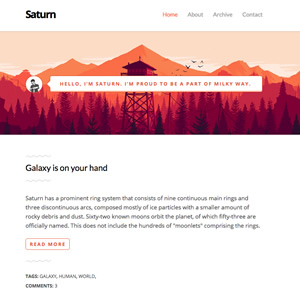
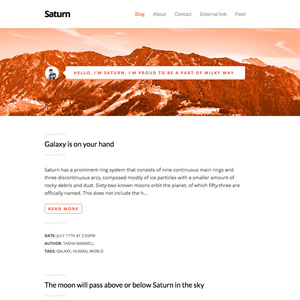
Images replacements due to copyright infringement Fix #1

diff --git a/css/custom.min.css b/css/custom.min.css
@@ -1,4 +1,4 @@
 /*!
  *  Saturn HTML Template by @flamekaizar - http://afnizar.com
  *  License - http://license.afnizar.com/ (MIT License)
- */body{margin-bottom:50px}a{font-family:"Open Sans",sans-serif}.container{margin:auto;max-width:662px;padding:0 20px}.main-nav{padding-top:30px;padding-bottom:25px;background-color:#FFF;-moz-box-shadow:0 1px 5px rgba(0,0,0,.1);-webkit-box-shadow:0 1px 5px rgba(0,0,0,.1);box-shadow:0 1px 5px rgba(0,0,0,.1);z-index:10;position:relative}.group.top-nav{margin-bottom:-20px}.group.top-nav nav a{text-decoration:none}.group.top-nav nav a:hover{color:#FF6C40;-webkit-transition:all .25s ease-in-out;-moz-transition:all .2s ease-in-out;-ms-transition:all .2s ease-in-out;-o-transition:all .2s ease-in-out;transition:all .2s ease-in-out}.logo,.top-nav a.logo{font-family:'Open Sans',sans-serif;font-weight:700;font-size:27px;color:#000;letter-spacing:-2px}.navigation-toggle .logo{font-size:20px;text-transform:capitalize}.top-nav .item-nav li.active a{color:#FF6C40}.top-nav .item-nav li a{font-family:Lato,sans-serif;font-size:15px;font-weight:500;color:#A4A4A4}.intro{width:100%;height:272px;padding-top:117px;background:url(../img/head-bg.jpg) center top #F7F7F7}p.p-intro{color:#E85F37;font-family:"Open Sans",sans-serif;font-size:13px;letter-spacing:2px;font-weight:700;text-transform:uppercase;padding:10px 25px;background-color:#FFF;border:1px solid #DC5227;-moz-border-radius:5px;-webkit-border-radius:5px;border-radius:5px;box-shadow:inset 0 -3px 0 #ffcfbc;position:relative;-webkit-animation:smooth-entry-btn 1s;-moz-animation:smooth-entry-btn 1s;animation:smooth-entry-btn 1s}p.p-intro:after{content:'';position:absolute;border-style:solid;border-width:9px 9px 9px 0;border-color:transparent #FFF;display:block;width:0;z-index:1;left:-9px;top:12px}p.p-intro:before{content:'';position:absolute;border-style:solid;border-width:11px 10px 11px 0;border-color:transparent #DC5227;display:block;width:0;z-index:1;left:-10px;top:10px}img.img-intro{border-radius:100px;width:47px;background-color:#EF3A3A;border:1px solid #DC5227;-moz-box-shadow:inset .5px .9px 5px rgba(0,0,0,.05);-webkit-box-shadow:inset .5px .9px 5px rgba(0,0,0,.05);box-shadow:inset .5px .9px 5px rgba(0,0,0,.05);-webkit-animation:smooth-entry-btn 1s;-moz-animation:smooth-entry-btn 1s;animation:smooth-entry-btn 1s}.content{padding-top:75px}.post{margin-bottom:80px}.content .post a{text-decoration:none}.content .post h1{color:#000;font-family:Lato,sans-serif;font-size:22px;font-weight:400;position:relative}.content .post a h1:hover{color:#FF6C40;-webkit-transition:all .2s ease-in-out;-moz-transition:all .2s ease-in-out;-ms-transition:all .2s ease-in-out;-o-transition:all .2s ease-in-out;transition:all .2s ease-in-out}.content .post p{color:#535353;font-family:"Open Sans",sans-serif;font-size:15px;font-weight:400}.content .post img{margin-bottom:20px}.content .post img.left{margin-right:20px}.content .post hr{content:url(../img/separator.png);width:66px;height:7px;float:left;border:none}.content .post h1:before{content:url(../img/separator.png);position:absolute;top:-35px;left:1px}.in-content{margin-top:55px}a.read-more{padding:5px 10px;background-color:#FFF;border:1px solid #E85F37;-moz-border-radius:5px;-webkit-border-radius:5px;border-radius:5px;color:#E85F37;font-size:13px;font-weight:700;text-transform:uppercase;text-decoration:none;letter-spacing:2px}a.read-more:hover{background-color:#FF6C40;color:#fff;-webkit-transition:all .25s ease-in-out;-moz-transition:all .25s ease-in-out;-ms-transition:all .25s ease-in-out;-o-transition:all .25s ease-in-out;transition:all .25s ease-in-out}.foot-post{position:relative;margin-top:60px;color:#535353;font-family:"Open Sans",sans-serif;font-size:12px;font-weight:700;text-transform:uppercase}.foot-post a, .foot-post span{font-weight:400;text-decoration:none;color:#535353}.foot-post a:hover{border-bottom:1px dotted #ccc}.foot-post:before{content:url(../img/separator.png);position:absolute;top:-40px;left:1px}footer .btn{color:#FFF;font-size:13px;font-family:"Open Sans";font-weight:700;letter-spacing:2px}footer .social li{display:inline;margin-left:10px;margin-right:10px}footer .social li a{color:#a5a5a5}footer .social li a:hover{color:#e85f37}.foot-cp a{color:#A5A5A5;font-family:Lato,sans-serif;font-size:13px;font-weight:400;text-transform:uppercase;text-decoration:none;letter-spacing:3px}@-webkit-keyframes smooth-entry{0%{opacity:0;-webkit-transform:translateY(-1.4em)}100%{opacity:1;-webkit-transform:translateY(0)}}@-moz-keyframes smooth-entry{0%{opacity:0;-moz-transform:translateY(-1.4em)}100%{opacity:1;-moz-transform:translateY(0)}}@keyframes smooth-entry{0%{opacity:0;-webkit-transform:translateY(-1.4em);-moz-transform:translateY(-1.4em);-ms-transform:translateY(-1.4em);-o-transform:translateY(-1.4em);transform:translateY(-1.4em)}100%{opacity:1;-webkit-transform:translateY(0);-moz-transform:translateY(0);-ms-transform:translateY(0);-o-transform:translateY(0);transform:translateY(0)}}@-webkit-keyframes smooth-entry-reverse{0%{opacity:0;-webkit-transform:translateY(2em)}100%{opacity:1;-webkit-transform:translateY(0)}}@-moz-keyframes smooth-entry-reverse{0%{opacity:0;-moz-transform:translateY(2em)}100%{opacity:1;-moz-transform:translateY(0)}}@keyframes smooth-entry-reverse{0%{opacity:0;-webkit-transform:translateY(2em);-moz-transform:translateY(2em);-ms-transform:translateY(2em);-o-transform:translateY(2em);transform:translateY(2em)}100%{opacity:1;-webkit-transform:translateY(0);-moz-transform:translateY(0);-ms-transform:translateY(0);-o-transform:translateY(0);transform:translateY(0)}}@-webkit-keyframes smooth-entry-title{0%,50%{opacity:0;-webkit-transform:translateY(-.6em)}100%{opacity:1;-webkit-transform:translateY(0)}}@-moz-keyframes smooth-entry-title{0%,50%{opacity:0;-moz-transform:translateY(-.6em)}100%{opacity:1;-moz-transform:translateY(0)}}@keyframes smooth-entry-title{0%,50%{opacity:0;-webkit-transform:translateY(-.6em);-moz-transform:translateY(-.6em);-ms-transform:translateY(-.6em);-o-transform:translateY(-.6em);transform:translateY(-.6em)}100%{opacity:1;-webkit-transform:translateY(0);-moz-transform:translateY(0);-ms-transform:translateY(0);-o-transform:translateY(0);transform:translateY(0)}}@-webkit-keyframes smooth-entry-btn{0%,70%{opacity:0;-webkit-transform:translateY(0.6em)}100%{opacity:1;-webkit-transform:translateY(0)}}@-moz-keyframes smooth-entry-btn{0%,70%{opacity:0;-moz-transform:translateY(0.6em)}100%{opacity:1;-moz-transform:translateY(0)}}@keyframes smooth-entry-btn{0%,70%{opacity:0;-webkit-transform:translateY(0.6em);-moz-transform:translateY(0.6em);-ms-transform:translateY(0.6em);-o-transform:translateY(0.6em);transform:translateY(0.6em)}100%{opacity:1;-webkit-transform:translateY(0);-moz-transform:translateY(0);-ms-transform:translateY(0);-o-transform:translateY(0);transform:translateY(0)}}@-webkit-keyframes fof-alien{0%,100%{-webkit-transform:translateY(0)}50%{-webkit-transform:translateY(-30px)}}@-moz-keyframes fof-alien{0%,100%{-moz-transform:translateY(0)}50%{-moz-transform:translateY(-30px)}}@keyframes fof-alien{0%,100%{-webkit-transform:translateY(0);-moz-transform:translateY(0);-ms-transform:translateY(0);-o-transform:translateY(0);transform:translateY(0)}50%{-webkit-transform:translateY(-30px);-moz-transform:translateY(-30px);-ms-transform:translateY(-30px);-o-transform:translateY(-30px);transform:translateY(-30px)}}@-webkit-keyframes fof-shadow{0%,100%{-webkit-transform:scale(1)}50%{-webkit-transform:scale(0.8)}}@-moz-keyframes fof-shadow{0%,100%{-moz-transform:scale(1)}50%{-moz-transform:scale(0.8)}}@keyframes fof-shadow{0%,100%{-webkit-transform:scale(1);-moz-transform:scale(1);-ms-transform:scale(1);-o-transform:scale(1);transform:scale(1)}50%{-webkit-transform:scale(0.8);-moz-transform:scale(0.8);-ms-transform:scale(0.8);-o-transform:scale(0.8);transform:scale(0.8)}}@media only screen and (max-width:767px){.intro{padding-top:50px}img.img-intro{display:block;margin-left:auto;margin-right:auto}.logo-w{display:none}.main-nav{padding-top:20px;padding-bottom:20px}.top-nav .item-nav li{padding-bottom:10px}footer .btn{display:block;margin-left:auto;margin-right:auto}footer .social{text-align:center}.foot-cp{padding-top:10px}}
+ */body{margin-bottom:50px}a{font-family:"Open Sans",sans-serif}.container{margin:auto;max-width:662px;padding:0 20px}.main-nav{padding-top:30px;padding-bottom:25px;background-color:#FFF;-moz-box-shadow:0 1px 5px rgba(0,0,0,.1);-webkit-box-shadow:0 1px 5px rgba(0,0,0,.1);box-shadow:0 1px 5px rgba(0,0,0,.1);z-index:10;position:relative}.group.top-nav{margin-bottom:-20px}.group.top-nav nav a{text-decoration:none}.group.top-nav nav a:hover{color:#FF6C40;-webkit-transition:all .25s ease-in-out;-moz-transition:all .2s ease-in-out;-ms-transition:all .2s ease-in-out;-o-transition:all .2s ease-in-out;transition:all .2s ease-in-out}.logo,.top-nav a.logo{font-family:'Open Sans',sans-serif;font-weight:700;font-size:27px;color:#000;letter-spacing:-2px}.navigation-toggle .logo{font-size:20px;text-transform:capitalize}.top-nav .item-nav li.active a{color:#FF6C40}.top-nav .item-nav li a{font-family:Lato,sans-serif;font-size:15px;font-weight:500;color:#A4A4A4}.intro{width:100%;height:272px;padding-top:117px;background:url(../img/head-bg.jpg) center 35% #F7F7F7}p.p-intro{color:#E85F37;font-family:"Open Sans",sans-serif;font-size:13px;letter-spacing:2px;font-weight:700;text-transform:uppercase;padding:10px 25px;background-color:#FFF;border:1px solid #DC5227;-moz-border-radius:5px;-webkit-border-radius:5px;border-radius:5px;box-shadow:inset 0 -3px 0 #ffcfbc;position:relative;-webkit-animation:smooth-entry-btn 1s;-moz-animation:smooth-entry-btn 1s;animation:smooth-entry-btn 1s}p.p-intro:after{content:'';position:absolute;border-style:solid;border-width:9px 9px 9px 0;border-color:transparent #FFF;display:block;width:0;z-index:1;left:-9px;top:12px}p.p-intro:before{content:'';position:absolute;border-style:solid;border-width:11px 10px 11px 0;border-color:transparent #DC5227;display:block;width:0;z-index:1;left:-10px;top:10px}img.img-intro{border-radius:100px;width:47px;background-color:#EF3A3A;border:1px solid #DC5227;-moz-box-shadow:inset .5px .9px 5px rgba(0,0,0,.05);-webkit-box-shadow:inset .5px .9px 5px rgba(0,0,0,.05);box-shadow:inset .5px .9px 5px rgba(0,0,0,.05);-webkit-animation:smooth-entry-btn 1s;-moz-animation:smooth-entry-btn 1s;animation:smooth-entry-btn 1s}.content{padding-top:75px}.post{margin-bottom:80px}.content .post a{text-decoration:none}.content .post h1{color:#000;font-family:Lato,sans-serif;font-size:22px;font-weight:400;position:relative}.content .post a h1:hover{color:#FF6C40;-webkit-transition:all .2s ease-in-out;-moz-transition:all .2s ease-in-out;-ms-transition:all .2s ease-in-out;-o-transition:all .2s ease-in-out;transition:all .2s ease-in-out}.content .post p{color:#535353;font-family:"Open Sans",sans-serif;font-size:15px;font-weight:400}.content .post img{margin-bottom:20px}.content .post img.left{margin-right:20px}.content .post hr{content:url(../img/separator.png);width:66px;height:7px;float:left;border:none}.content .post h1:before{content:url(../img/separator.png);position:absolute;top:-35px;left:1px}.in-content{margin-top:55px}a.read-more{padding:5px 10px;background-color:#FFF;border:1px solid #E85F37;-moz-border-radius:5px;-webkit-border-radius:5px;border-radius:5px;color:#E85F37;font-size:13px;font-weight:700;text-transform:uppercase;text-decoration:none;letter-spacing:2px}a.read-more:hover{background-color:#FF6C40;color:#fff;-webkit-transition:all .25s ease-in-out;-moz-transition:all .25s ease-in-out;-ms-transition:all .25s ease-in-out;-o-transition:all .25s ease-in-out;transition:all .25s ease-in-out}.foot-post{position:relative;margin-top:60px;color:#535353;font-family:"Open Sans",sans-serif;font-size:12px;font-weight:700;text-transform:uppercase}.foot-post a, .foot-post span{font-weight:400;text-decoration:none;color:#535353}.foot-post a:hover{border-bottom:1px dotted #ccc}.foot-post:before{content:url(../img/separator.png);position:absolute;top:-40px;left:1px}footer .btn{color:#FFF;font-size:13px;font-family:"Open Sans";font-weight:700;letter-spacing:2px}footer .social li{display:inline;margin-left:10px;margin-right:10px}footer .social li a{color:#a5a5a5}footer .social li a:hover{color:#e85f37}.foot-cp a{color:#A5A5A5;font-family:Lato,sans-serif;font-size:13px;font-weight:400;text-transform:uppercase;text-decoration:none;letter-spacing:3px}@-webkit-keyframes smooth-entry{0%{opacity:0;-webkit-transform:translateY(-1.4em)}100%{opacity:1;-webkit-transform:translateY(0)}}@-moz-keyframes smooth-entry{0%{opacity:0;-moz-transform:translateY(-1.4em)}100%{opacity:1;-moz-transform:translateY(0)}}@keyframes smooth-entry{0%{opacity:0;-webkit-transform:translateY(-1.4em);-moz-transform:translateY(-1.4em);-ms-transform:translateY(-1.4em);-o-transform:translateY(-1.4em);transform:translateY(-1.4em)}100%{opacity:1;-webkit-transform:translateY(0);-moz-transform:translateY(0);-ms-transform:translateY(0);-o-transform:translateY(0);transform:translateY(0)}}@-webkit-keyframes smooth-entry-reverse{0%{opacity:0;-webkit-transform:translateY(2em)}100%{opacity:1;-webkit-transform:translateY(0)}}@-moz-keyframes smooth-entry-reverse{0%{opacity:0;-moz-transform:translateY(2em)}100%{opacity:1;-moz-transform:translateY(0)}}@keyframes smooth-entry-reverse{0%{opacity:0;-webkit-transform:translateY(2em);-moz-transform:translateY(2em);-ms-transform:translateY(2em);-o-transform:translateY(2em);transform:translateY(2em)}100%{opacity:1;-webkit-transform:translateY(0);-moz-transform:translateY(0);-ms-transform:translateY(0);-o-transform:translateY(0);transform:translateY(0)}}@-webkit-keyframes smooth-entry-title{0%,50%{opacity:0;-webkit-transform:translateY(-.6em)}100%{opacity:1;-webkit-transform:translateY(0)}}@-moz-keyframes smooth-entry-title{0%,50%{opacity:0;-moz-transform:translateY(-.6em)}100%{opacity:1;-moz-transform:translateY(0)}}@keyframes smooth-entry-title{0%,50%{opacity:0;-webkit-transform:translateY(-.6em);-moz-transform:translateY(-.6em);-ms-transform:translateY(-.6em);-o-transform:translateY(-.6em);transform:translateY(-.6em)}100%{opacity:1;-webkit-transform:translateY(0);-moz-transform:translateY(0);-ms-transform:translateY(0);-o-transform:translateY(0);transform:translateY(0)}}@-webkit-keyframes smooth-entry-btn{0%,70%{opacity:0;-webkit-transform:translateY(0.6em)}100%{opacity:1;-webkit-transform:translateY(0)}}@-moz-keyframes smooth-entry-btn{0%,70%{opacity:0;-moz-transform:translateY(0.6em)}100%{opacity:1;-moz-transform:translateY(0)}}@keyframes smooth-entry-btn{0%,70%{opacity:0;-webkit-transform:translateY(0.6em);-moz-transform:translateY(0.6em);-ms-transform:translateY(0.6em);-o-transform:translateY(0.6em);transform:translateY(0.6em)}100%{opacity:1;-webkit-transform:translateY(0);-moz-transform:translateY(0);-ms-transform:translateY(0);-o-transform:translateY(0);transform:translateY(0)}}@-webkit-keyframes fof-alien{0%,100%{-webkit-transform:translateY(0)}50%{-webkit-transform:translateY(-30px)}}@-moz-keyframes fof-alien{0%,100%{-moz-transform:translateY(0)}50%{-moz-transform:translateY(-30px)}}@keyframes fof-alien{0%,100%{-webkit-transform:translateY(0);-moz-transform:translateY(0);-ms-transform:translateY(0);-o-transform:translateY(0);transform:translateY(0)}50%{-webkit-transform:translateY(-30px);-moz-transform:translateY(-30px);-ms-transform:translateY(-30px);-o-transform:translateY(-30px);transform:translateY(-30px)}}@-webkit-keyframes fof-shadow{0%,100%{-webkit-transform:scale(1)}50%{-webkit-transform:scale(0.8)}}@-moz-keyframes fof-shadow{0%,100%{-moz-transform:scale(1)}50%{-moz-transform:scale(0.8)}}@keyframes fof-shadow{0%,100%{-webkit-transform:scale(1);-moz-transform:scale(1);-ms-transform:scale(1);-o-transform:scale(1);transform:scale(1)}50%{-webkit-transform:scale(0.8);-moz-transform:scale(0.8);-ms-transform:scale(0.8);-o-transform:scale(0.8);transform:scale(0.8)}}@media only screen and (max-width:767px){.intro{padding-top:50px}img.img-intro{display:block;margin-left:auto;margin-right:auto}.logo-w{display:none}.main-nav{padding-top:20px;padding-bottom:20px}.top-nav .item-nav li{padding-bottom:10px}footer .btn{display:block;margin-left:auto;margin-right:auto}footer .social{text-align:center}.foot-cp{padding-top:10px}}

diff --git a/css/custom.css b/css/custom.css
@@ -23,12 +23,12 @@ a { font-family: "Open Sans", sans-serif }
 }
 .group.top-nav { margin-bottom: -20px }
 .group.top-nav nav a { text-decoration: none }
-.group.top-nav nav a:hover { 
+.group.top-nav nav a:hover {
 	color: #FF6C40; -webkit-transition: all .25s ease-in-out;
    -moz-transition: all .2s ease-in-out;
     -ms-transition: all .2s ease-in-out;
      -o-transition: all .2s ease-in-out;
-        transition: all .2s ease-in-out; 
+        transition: all .2s ease-in-out;
 }
 /* Created by @flamekaizar */
 .top-nav a.logo,
@@ -54,7 +54,7 @@ a { font-family: "Open Sans", sans-serif }
     width: 100%;
     height: 272px;
     padding-top: 117px;
-    background: url(../img/head-bg.jpg) #F7F7F7 center top;
+    background: url(../img/head-bg.jpg) #F7F7F7 center 35%;
 }
 p.p-intro {
     color: #E85F37;
@@ -129,7 +129,7 @@ img.img-intro {
    -moz-transition: all .2s ease-in-out;
     -ms-transition: all .2s ease-in-out;
      -o-transition: all .2s ease-in-out;
-        transition: all .2s ease-in-out; 
+        transition: all .2s ease-in-out;
 }
 .content .post p {
     color: #535353;
@@ -229,7 +229,7 @@ footer .social li a:hover {
 
 @-webkit-keyframes smooth-entry{0%{opacity:0;-webkit-transform:translateY(-1.4em)}100%{opacity:1;-webkit-transform:translateY(0)}}@-moz-keyframes smooth-entry{0%{opacity:0;-moz-transform:translateY(-1.4em)}100%{opacity:1;-moz-transform:translateY(0)}}@keyframes smooth-entry{0%{opacity:0;-webkit-transform:translateY(-1.4em);-moz-transform:translateY(-1.4em);-ms-transform:translateY(-1.4em);-o-transform:translateY(-1.4em);transform:translateY(-1.4em)}100%{opacity:1;-webkit-transform:translateY(0);-moz-transform:translateY(0);-ms-transform:translateY(0);-o-transform:translateY(0);transform:translateY(0)}}@-webkit-keyframes smooth-entry-reverse{0%{opacity:0;-webkit-transform:translateY(2em)}100%{opacity:1;-webkit-transform:translateY(0)}}@-moz-keyframes smooth-entry-reverse{0%{opacity:0;-moz-transform:translateY(2em)}100%{opacity:1;-moz-transform:translateY(0)}}@keyframes smooth-entry-reverse{0%{opacity:0;-webkit-transform:translateY(2em);-moz-transform:translateY(2em);-ms-transform:translateY(2em);-o-transform:translateY(2em);transform:translateY(2em)}100%{opacity:1;-webkit-transform:translateY(0);-moz-transform:translateY(0);-ms-transform:translateY(0);-o-transform:translateY(0);transform:translateY(0)}}@-webkit-keyframes smooth-entry-title{0%{opacity:0;-webkit-transform:translateY(-0.6em)}50%{opacity:0;-webkit-transform:translateY(-0.6em)}100%{opacity:1;-webkit-transform:translateY(0)}}@-moz-keyframes smooth-entry-title{0%{opacity:0;-moz-transform:translateY(-0.6em)}50%{opacity:0;-moz-transform:translateY(-0.6em)}100%{opacity:1;-moz-transform:translateY(0)}}@keyframes smooth-entry-title{0%{opacity:0;-webkit-transform:translateY(-0.6em);-moz-transform:translateY(-0.6em);-ms-transform:translateY(-0.6em);-o-transform:translateY(-0.6em);transform:translateY(-0.6em)}50%{opacity:0;-webkit-transform:translateY(-0.6em);-moz-transform:translateY(-0.6em);-ms-transform:translateY(-0.6em);-o-transform:translateY(-0.6em);transform:translateY(-0.6em)}100%{opacity:1;-webkit-transform:translateY(0);-moz-transform:translateY(0);-ms-transform:translateY(0);-o-transform:translateY(0);transform:translateY(0)}}@-webkit-keyframes smooth-entry-btn{0%{opacity:0;-webkit-transform:translateY(0.6em)}70%{opacity:0;-webkit-transform:translateY(0.6em)}100%{opacity:1;-webkit-transform:translateY(0)}}@-moz-keyframes smooth-entry-btn{0%{opacity:0;-moz-transform:translateY(0.6em)}70%{opacity:0;-moz-transform:translateY(0.6em)}100%{opacity:1;-moz-transform:translateY(0)}}@keyframes smooth-entry-btn{0%{opacity:0;-webkit-transform:translateY(0.6em);-moz-transform:translateY(0.6em);-ms-transform:translateY(0.6em);-o-transform:translateY(0.6em);transform:translateY(0.6em)}70%{opacity:0;-webkit-transform:translateY(0.6em);-moz-transform:translateY(0.6em);-ms-transform:translateY(0.6em);-o-transform:translateY(0.6em);transform:translateY(0.6em)}100%{opacity:1;-webkit-transform:translateY(0);-moz-transform:translateY(0);-ms-transform:translateY(0);-o-transform:translateY(0);transform:translateY(0)}}@-webkit-keyframes fof-alien{0%,100%{-webkit-transform:translateY(0)}50%{-webkit-transform:translateY(-30px)}}@-moz-keyframes fof-alien{0%,100%{-moz-transform:translateY(0)}50%{-moz-transform:translateY(-30px)}}@keyframes fof-alien{0%,100%{-webkit-transform:translateY(0);-moz-transform:translateY(0);-ms-transform:translateY(0);-o-transform:translateY(0);transform:translateY(0)}50%{-webkit-transform:translateY(-30px);-moz-transform:translateY(-30px);-ms-transform:translateY(-30px);-o-transform:translateY(-30px);transform:translateY(-30px)}}@-webkit-keyframes fof-shadow{0%,100%{-webkit-transform:scale(1)}50%{-webkit-transform:scale(0.8)}}@-moz-keyframes fof-shadow{0%,100%{-moz-transform:scale(1)}50%{-moz-transform:scale(0.8)}}@keyframes fof-shadow{0%,100%{-webkit-transform:scale(1);-moz-transform:scale(1);-ms-transform:scale(1);-o-transform:scale(1);transform:scale(1)}50%{-webkit-transform:scale(0.8);-moz-transform:scale(0.8);-ms-transform:scale(0.8);-o-transform:scale(0.8);transform:scale(0.8)}}
 /* Responsive */
-@media only screen and (max-width: 767px) { 
+@media only screen and (max-width: 767px) {
     .intro { padding-top: 50px }
     img.img-intro {
         display: block;

diff --git a/README.md b/README.md
@@ -75,3 +75,8 @@ If you want to set Saturn as the default theme, you can do so by following these
 * Clear the Grav cache. The simplest way to do this is by going to the root Grav directory in Terminal and typing `bin/grav clear-cache`.
 
 Once this is done, you should be able to see the new theme on the frontend. Keep in mind any customizations made to the previous theme will not be reflected as all of the theme and templating information is now being pulled from the **saturn** folder.
+
+# Credits
+* Header Image: [Oliver Wendel](https://unsplash.com/c_ow)
+* Post Image: [warszawianka](http://www.freestockphotos.biz/stockphoto/15150) - Public Domain
+* [Unsplash](https://unsplash.com/)
